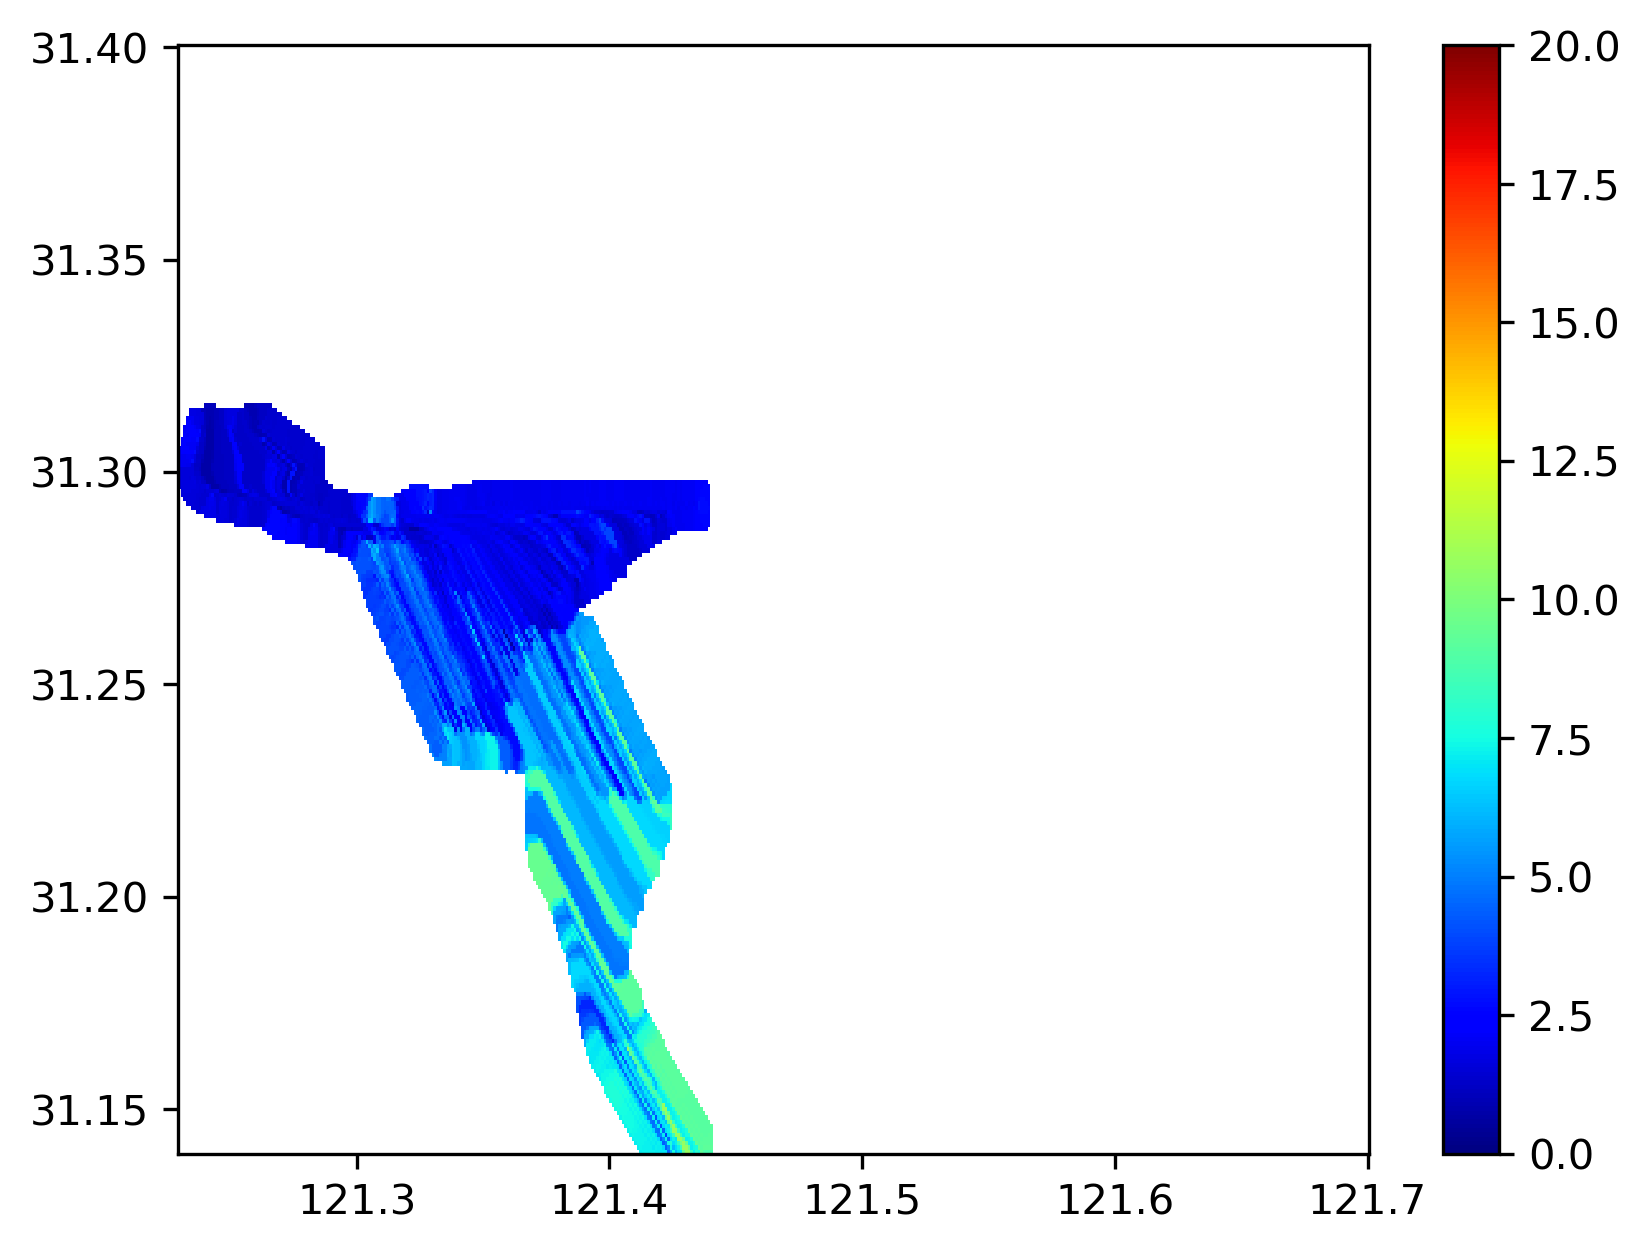
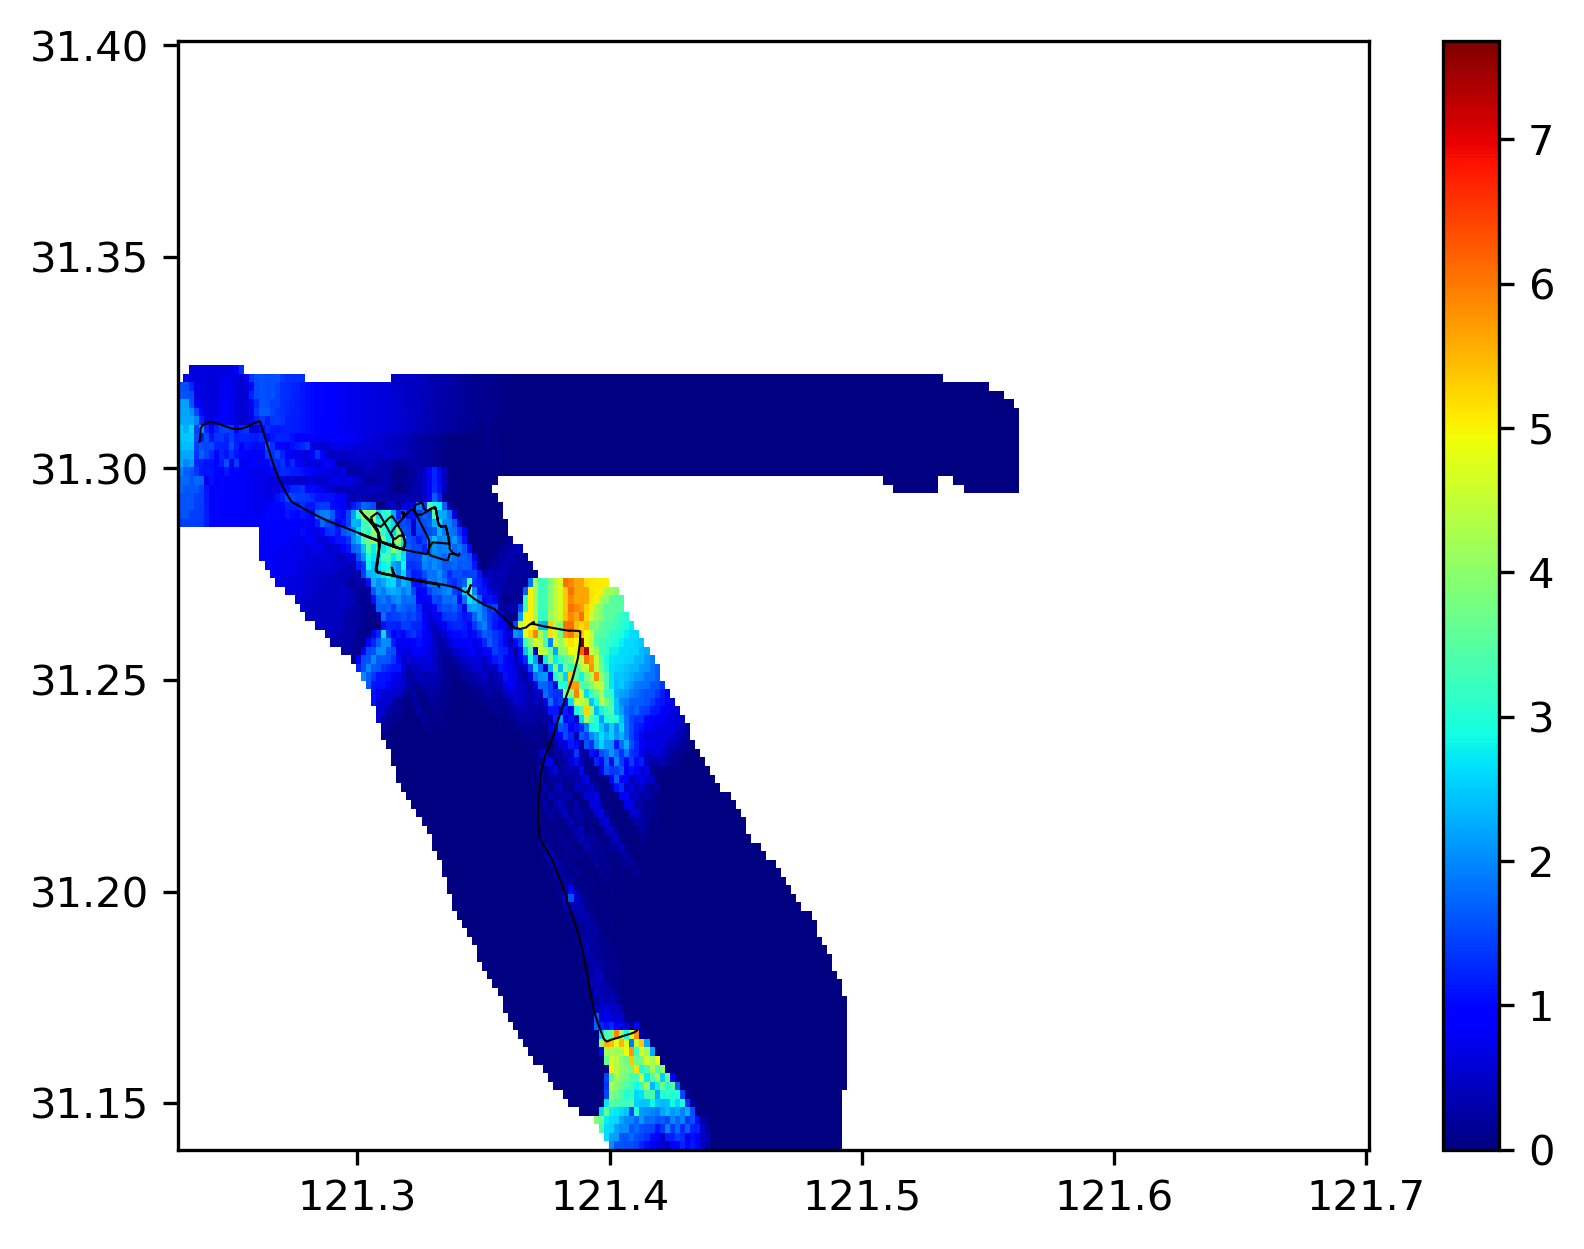
v1.20 turbulance+dispersion

Changed region(s): [[0.0, 0.0, 0.9899, 0.968], [0.6187, 0.9367, 0.7424, 0.968], [0.1856, 0.9055, 0.2784, 0.968]]

diff --git a/lavender_mirror/lib/kernel.py b/lavender_mirror/lib/kernel.py
@@ -13,26 +13,53 @@ def lagrun(cfg, epi_df, u, v, lat2d, lon2d):
     lagrun
     '''
     ptcls=Particles(cfg, epi_df, lat2d, lon2d)
-    ptcls.march(u,v)
-
-    conc, times=np.zeros(lat2d.shape), np.zeros(lat2d.shape)
+    conc, times, weights=np.zeros(lat2d.shape), np.zeros(lat2d.shape), np.zeros(lat2d.shape)
     latmin,latmax= lat2d.min(), lat2d.max()
     lonmin,lonmax= lon2d.min(), lon2d.max()
-    utils.write_log(f'{print_prefix}Aggregating conc...')
-    for idx in range(ptcls.nptcls):
-        conc0=ptcls.conc[idx]
-        for idt in range(ptcls.nsteps):
-            if ptcls.xlats[idx,idt]<latmin or ptcls.xlats[idx,idt]>latmax:
-                continue
-            if ptcls.xlons[idx,idt]<lonmin or ptcls.xlons[idx,idt]>lonmax:
-                continue
-            lat_index, lon_index = mesh.locate_position(
-                ptcls.xlats[idx,idt], ptcls.xlons[idx,idt], lat2d, lon2d)
-            conc[lat_index, lon_index] += conc0
-            times[lat_index, lon_index] +=1
-    conc=conc/times
-    return conc, times 
 
+    nens=1
+    if ptcls.turbflag:
+        nens=int(cfg['KERNEL']['turb_nens'])
+    diff_weight=diff_mode(ptcls.diff_mode, ptcls.dt, ptcls.nsteps)
+    for ntime in range(nens):
+        ptcls.march(u,v)
+        utils.write_log(f'{print_prefix}Aggregating conc, round {ntime+1}/{nens}...')
+        for idx in range(ptcls.nptcls):
+            conc0=ptcls.conc[idx]
+            for idt in range(ptcls.nsteps):
+                if ptcls.xlats[idx,idt]<latmin or ptcls.xlats[idx,idt]>latmax:
+                    continue
+                if ptcls.xlons[idx,idt]<lonmin or ptcls.xlons[idx,idt]>lonmax:
+                    continue
+                lat_index, lon_index = mesh.locate_position(
+                    ptcls.xlats[idx,idt], ptcls.xlons[idx,idt], lat2d, lon2d)
+                conc[lat_index, lon_index] += conc0*diff_weight[idt]
+                weights[lat_index, lon_index] += diff_weight[idt]
+                times[lat_index, lon_index] +=1
+    weights=weights/times/nens    
+    conc=conc/times
+    return conc, times, weights 
+
+def diff_mode(diff_mode, dt, nsteps, half=1200):
+    dt=abs(dt)
+    tstep=np.linspace(0, nsteps*dt, nsteps)
+    if diff_mode=='conservative':
+        diff_weight=np.ones(nsteps)
+    elif diff_mode=='linear':
+        diff_weight=np.zeros(nsteps)
+        n0_step=int(half*2/dt)
+        if n0_step<nsteps:
+            diff_weight[:n0_step]=np.linspace(1,0,n0_step)
+        else:
+            diff_weight=np.linspace(1,0,nsteps)
+    elif diff_mode=='exponential':
+        diff_weight=np.exp2(-tstep/half)
+    elif diff_mode=='gaussian':
+        k=-1.0*np.exp(0.5)/(half**2)
+        diff_weight=np.exp(k*tstep**2)
+    else:
+        utils.throw_error(f'unknown diff mode:{diff_mode}')
+    return diff_weight
 
 class Particles:
 
@@ -56,8 +83,18 @@ class Particles:
         self.nptcls=df.shape[0]
         self.nsteps=int(cfg['KERNEL']['nsteps'])
         self.dt=int(cfg['KERNEL']['dt'])
+        self.turbflag=cfg['KERNEL'].getboolean('turb_flag')
+        if self.turbflag:
+            self.turblv=int(cfg['KERNEL']['turb_lv'])
+            if self.turblv>5:
+                self.turblv=5
+            elif self.turblv<1:
+                self.turblv=1
+        self.diff_mode=cfg['KERNEL']['diff_mode']
         self.part_id=np.arange(self.nptcls,dtype=np.int32)
         self.conc=np.zeros(self.nptcls)
+        self.dxs=np.zeros((self.nptcls,self.nsteps),dtype=np.float32)
+        self.dys=np.zeros((self.nptcls,self.nsteps),dtype=np.float32)
         self.xlons=np.zeros((self.nptcls,self.nsteps),dtype=np.float32)
         self.xlats=self.xlons.copy()
         self.xtimes=[]
@@ -75,11 +112,14 @@ class Particles:
         u4d,v4d=u.values,v.values
         lat1d,lon1d=u.lat.values,u.lon.values
         t1d=np.array([val.tolist()/1e9 for val in u.time.values])
+        dlatr=180/(CONST['a']*np.sin(np.pi/2-np.radians(lat1d.mean()))*np.pi)
         utils.write_log(
                 print_prefix+'Marching %d parcels for %d seconds' % (
                 self.nptcls, dt*self.nsteps))
-            
-
+        rand_ufactor=rand_vfactor=np.zeros((self.nptcls,self.nsteps))
+        if self.turbflag:
+            rand_ufactor=np.random.normal(size=(self.nptcls,self.nsteps))*0.2*self.turblv
+            rand_vfactor=rand_ufactor[::-1,::-1]
         for idx in range(self.nptcls):
             tf=self.xtimes[idx]
             it=tf.timestamp()
@@ -88,10 +128,11 @@ class Particles:
                 idlat=get_closest_idx_lsearch(lat1d, ilat)
                 idlon=get_closest_idx_lsearch(lon1d, ilon)
                 idtime=get_closest_idx_lsearch(t1d, it)
-                u0=u4d[idtime,idlat,idlon]
-                v0=v4d[idtime,idlat,idlon]
+                u0=u4d[idtime,idlat,idlon]*(1+rand_ufactor[idx,idt])
+                v0=v4d[idtime,idlat,idlon]*(1+rand_vfactor[idx,idt])
+                
                 dx=u0*dt
-                dlon=dx*180/(CONST['a']*np.sin(np.pi/2-np.radians(ilat))*np.pi)
+                dlon=dx*dlatr
                 dy=v0*dt
                 dlat=dy*CONST['dis2lat']
                 

diff --git a/lavender_mirror/run_model.py b/lavender_mirror/run_model.py
@@ -39,7 +39,7 @@ def waterfall():
     conc_dry=mesh.build_field(cfg, episode_df, lat2d, lon2d)
     
     # traced conc distribution
-    conc_trace, times=kernel.lagrun(cfg, episode_df, u, v, lat2d, lon2d)
+    conc_trace, times, weights=kernel.lagrun(cfg, episode_df, u, v, lat2d, lon2d)
     
     if cfg['KERNEL'].getboolean('idw_flag'):
         conc_trace=mesh.idw_interp_field(conc_trace)
@@ -47,18 +47,26 @@ def waterfall():
     # output
     io.outnc(
         cfg, lat2d, lon2d, 
-        {'conc_dry':conc_dry, 'conc_trace':conc_trace, 'tracer_counts':times})
+        {'conc_dry':conc_dry, 'conc_trace':conc_trace, 
+         'tracer_counts':times, 'ave_weights':weights})
     
     # paint
     fig_path=cfg['OUTPUT']['fig_dir']
     if not os.path.exists(fig_path):
         os.makedirs(fig_path)
     mesh.paint2d(
-        os.path.join(fig_path,'conc_dry.png'), conc_dry, lat2d, lon2d, minmax=(0, 20))
+        os.path.join(fig_path,'conc_dry.png'), episode_df,
+        conc_dry, lat2d, lon2d)
     mesh.paint2d(
-        os.path.join(fig_path,'conc_trace.png'), conc_trace, lat2d, lon2d, minmax=(0, 20))
+        os.path.join(fig_path,'conc_trace.png'), episode_df,
+        conc_trace, lat2d, lon2d)
     mesh.paint2d(
-        os.path.join(fig_path,'conc_trace_times.png'), times, lat2d, lon2d,minmax=(0, 50))
+        os.path.join(fig_path,'conc_trace_times.png'), episode_df,
+        times, lat2d, lon2d)
+    mesh.paint2d(
+        os.path.join(fig_path,'conc_trace_weights.png'), episode_df,
+        weights, lat2d, lon2d)
+
 
 def _setup_logging():
     """

diff --git a/lavender_mirror/lib/mesh.py b/lavender_mirror/lib/mesh.py
@@ -157,15 +157,16 @@ def inverse_distance_interpolation(x, y, z, xi, yi, n=3):
     zi = w.ravel().dot(z[idx].ravel())
     return zi
 
-def paint2d(fn, var2d, lat_mesh, lon_mesh, minmax=(0, 500)):
+def paint2d(fn, ep_df, var2d, lat_mesh, lon_mesh):
     import matplotlib
     matplotlib.use('Agg')
     import matplotlib.pyplot as plt
     fig, ax = plt.subplots()
     pcm=ax.pcolormesh(lon_mesh, lat_mesh, var2d, cmap='jet',
-                      vmin=minmax[0], vmax=minmax[1])
+                      vmin=np.nanmin(var2d), vmax=np.nanmax(var2d))
     # Add colorbar
     cbar = fig.colorbar(pcm)
+    ax.plot(ep_df['lon'], ep_df['lat'], color='black', linewidth=0.5)
     # Save the figure to a directory using the agg backend
     fig.savefig(fn, bbox_inches='tight', dpi=300, format='png')
     plt.close(fig)
